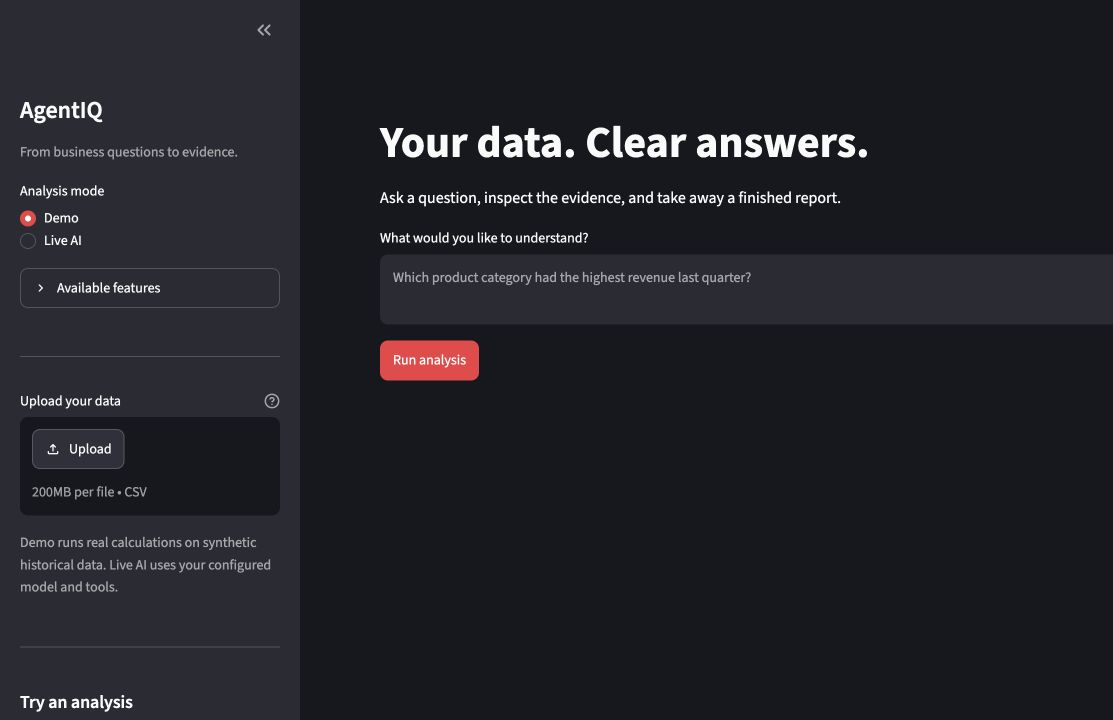
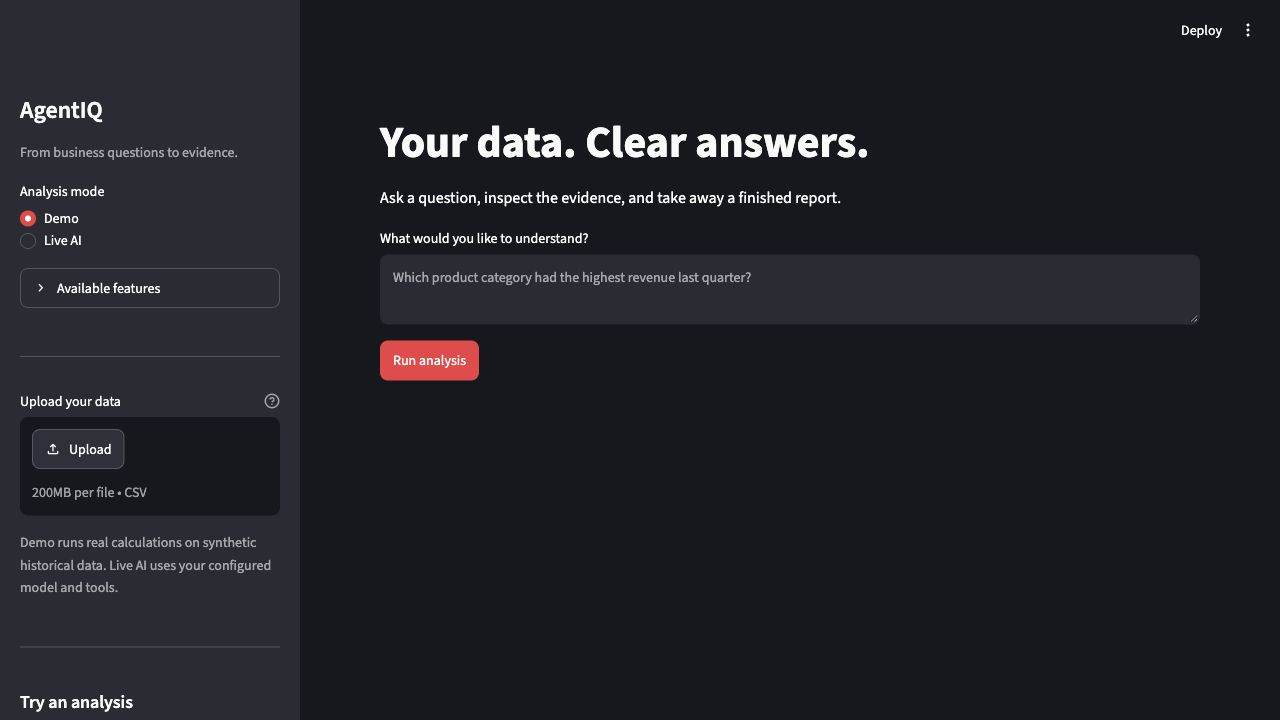
Refine showcase screenshots and integration documentation

diff --git a/docs/DEPLOYMENT.md b/docs/DEPLOYMENT.md
@@ -94,24 +94,22 @@ The API accepts one analysis at a time. A second analysis receives a readable
 busy response. Groq's free token limits can cause retry delays; the frontend waits
 up to 10 minutes. Check the provider's quota when requests stop completing.
 
-## Optional features and credential checks
+## Optional integrations
 
-These checks were performed on October 12, 2026. Populated environment variables
-are not proof that a credential is valid.
+Core database and CSV analysis needs only the selected model provider. The
+Render Blueprint disables external enrichment and email until configured.
 
-| Feature | Configuration | Check result / action |
+| Feature | Configuration | Supported behavior |
 | --- | --- | --- |
-| Web search and external benchmarks | `TAVILY_API_KEY`, or `SERPAPI_KEY` as an alternative | Tavily rejected the current key. Replace it; then set `ENABLE_WEB_SEARCH=true`. |
-| Weather enrichment | `OPENWEATHER_API_KEY` | Current key returned HTTP 401. Replace it; then set `ENABLE_WEATHER=true`. Supports 1–5 days of forecast for a city. |
-| Stock quotes | `ALPHAVANTAGE_API_KEY` | Returned an IBM quote. Supports quotes only; other financial metrics are not implemented. |
-| News enrichment | `NEWSAPI_KEY` | Current key returned HTTP 401. Replace it; then set `ENABLE_NEWS=true`. NewsAPI's free Developer plan is for development/testing, not deployment. |
-| Email delivery | `SMTP_HOST`, `SMTP_PORT`, `SMTP_USER`, `SMTP_PASSWORD`, optional `EMAIL_FROM` | Settings exist, but delivery has not been tested. Use your provider's SMTP credential or app password. A test requires an approved recipient. |
+| Web search | `TAVILY_API_KEY` or `SERPAPI_KEY`, `ENABLE_WEB_SEARCH=true` | External information and benchmarks. |
+| Weather | `OPENWEATHER_API_KEY`, `ENABLE_WEATHER=true` | City forecast for 1–5 days. |
+| Finance | `ALPHAVANTAGE_API_KEY`, `ENABLE_FINANCE=true` | Stock quotes only. |
+| News | `NEWSAPI_KEY`, `ENABLE_NEWS=true` | Topic-based articles. NewsAPI's free Developer plan is for development/testing, not deployment. |
+| Email | SMTP settings, `ENABLE_EMAIL=true` | Delivery when explicitly requested; unverified in project validation. |
 
-Rejected search, weather, and news integrations have been disabled in the local
-`.env`. No email was sent. After correcting credentials and flags, restart the
-API. The interface's feature list reflects configuration and enablement, not a
-live credential check. None of these optional services are required for core
-data analysis.
+Validate credentials independently before enabling a feature and restart the
+service after configuration changes. The interface reflects configured
+availability, not a live check. See [configuration](CONFIGURATION.md) for details.
 
 Provider references: [Groq limits](https://console.groq.com/docs/rate-limits),
 [Groq models](https://console.groq.com/docs/models),

diff --git a/docs/VERIFICATION.md b/docs/VERIFICATION.md
@@ -32,12 +32,6 @@ The final sample runs used approximately 18,201 tokens in total. Actual quotas,
 latency, and model availability depend on the provider account. The reporter and
 default reflection checks make no model requests.
 
-Optional service checks:
-
-- Tavily: current credential rejected; disabled locally.
-- OpenWeather: HTTP 401; disabled locally.
-- Alpha Vantage: an IBM stock quote was returned.
-- NewsAPI: HTTP 401; disabled locally.
-- SMTP: no message sent; delivery is unverified.
-
-See [deployment and credential guide](DEPLOYMENT.md) for setup and remaining inputs.
+Optional adapters are separate from the core validation. External search, weather,
+news, and email are disabled on the hosted showcase. Email delivery has not been
+tested. See [configuration](CONFIGURATION.md) for credentials and enable flags.
